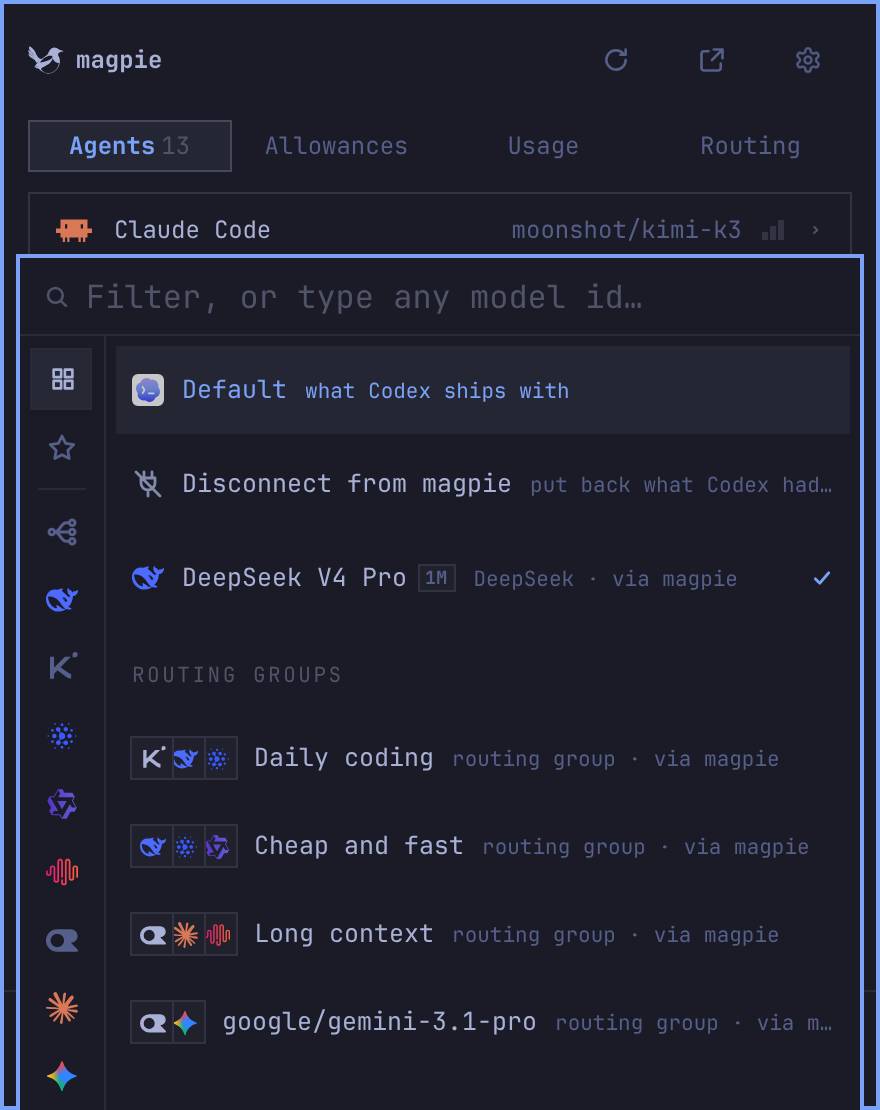
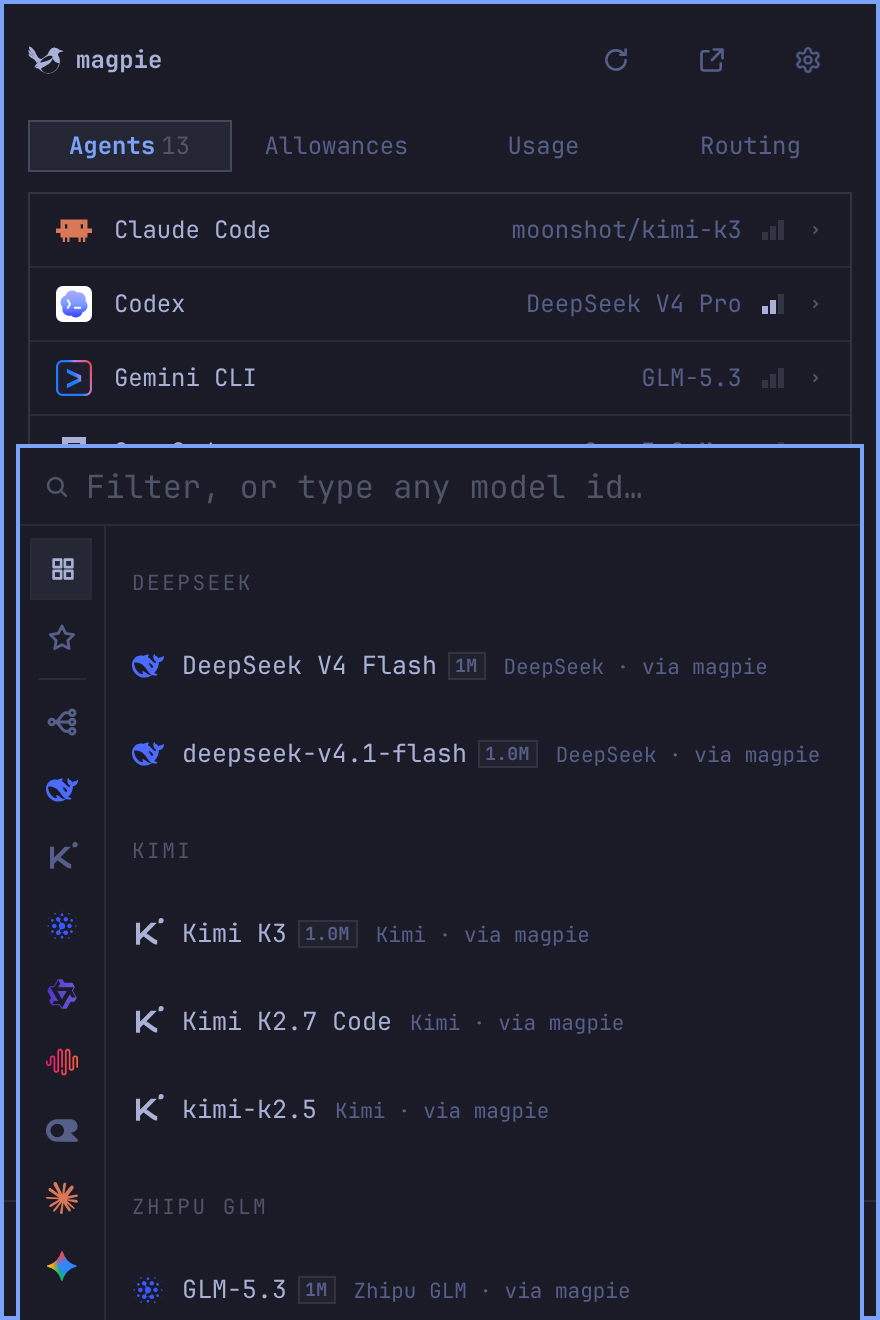
site: the Omarchy picker shot shows what its alt says — Codex's picker listing DeepSeek, Kimi and GLM models (owner: 其他页面的截图也检查一下有没有对不上的) — the old shot opened the picker on Routing groups and covered the Codex row, so neither Codex nor Kimi/GLM showed; it is re-shot in tokyo-night and catppuccin-la

diff --git a/site/public/omarchy.js b/site/public/omarchy.js
@@ -131,7 +131,7 @@
   // shot in tokyo-night (dark) and catppuccin-latte (light), in place of the
   // page's, as wide as before; shots not taken there keep the page's
   const SHOTS = {
-    "add": [2016, 1600], "agents": [2080, 1078], "import": [1280, 1120], "panel": [880, 1000], "picker": [880, 1110],
+    "add": [2016, 1600], "agents": [2080, 1078], "import": [1280, 1120], "panel": [880, 1000], "picker": [880, 1320],
     "providers": [2080, 1004], "routing": [2080, 1666], "routing-zh": [2080, 1592], "usage": [2080, 1004],
     "nested-routing": [2080, 1434], "nested-routing-zh": [2080, 1362], "intent-rules": [2012, 2150], "intent-rules-zh": [2012, 2088],
     "intent-routing-hit": [2080, 1220], "intent-routing-hit-zh": [2080, 1112], "intent-trace": [2016, 964], "intent-trace-zh": [2016, 892],
